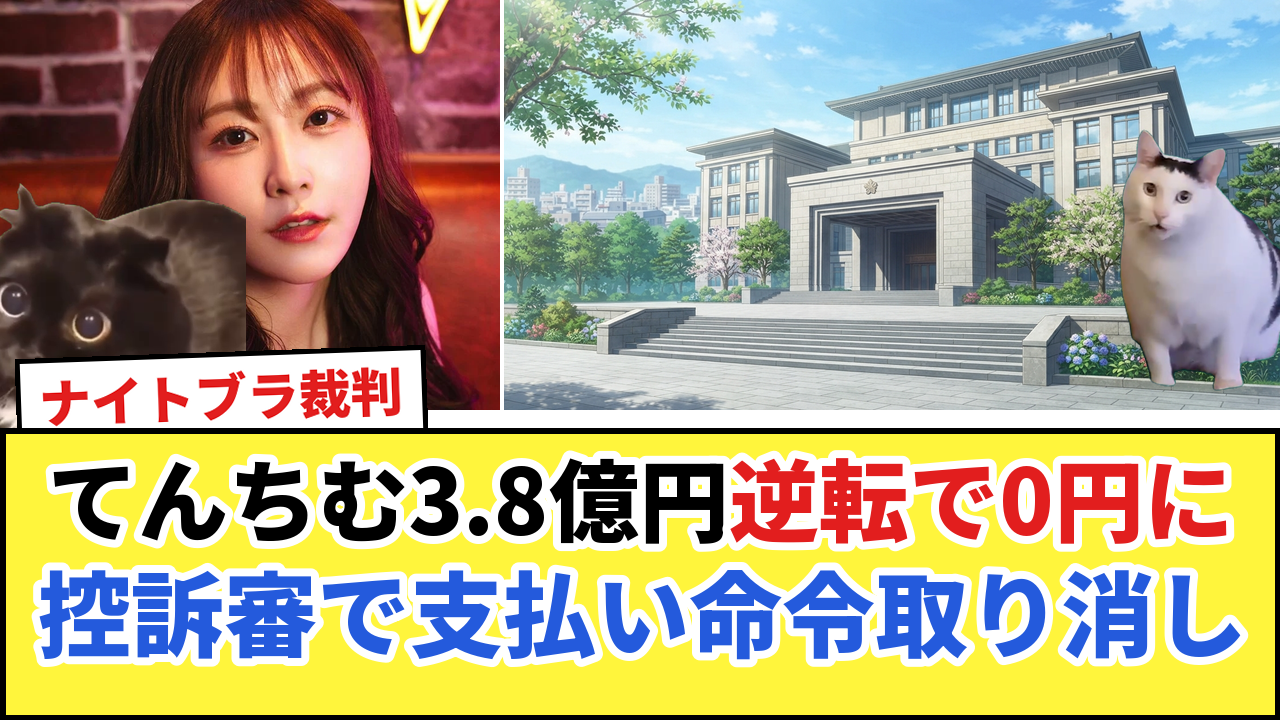
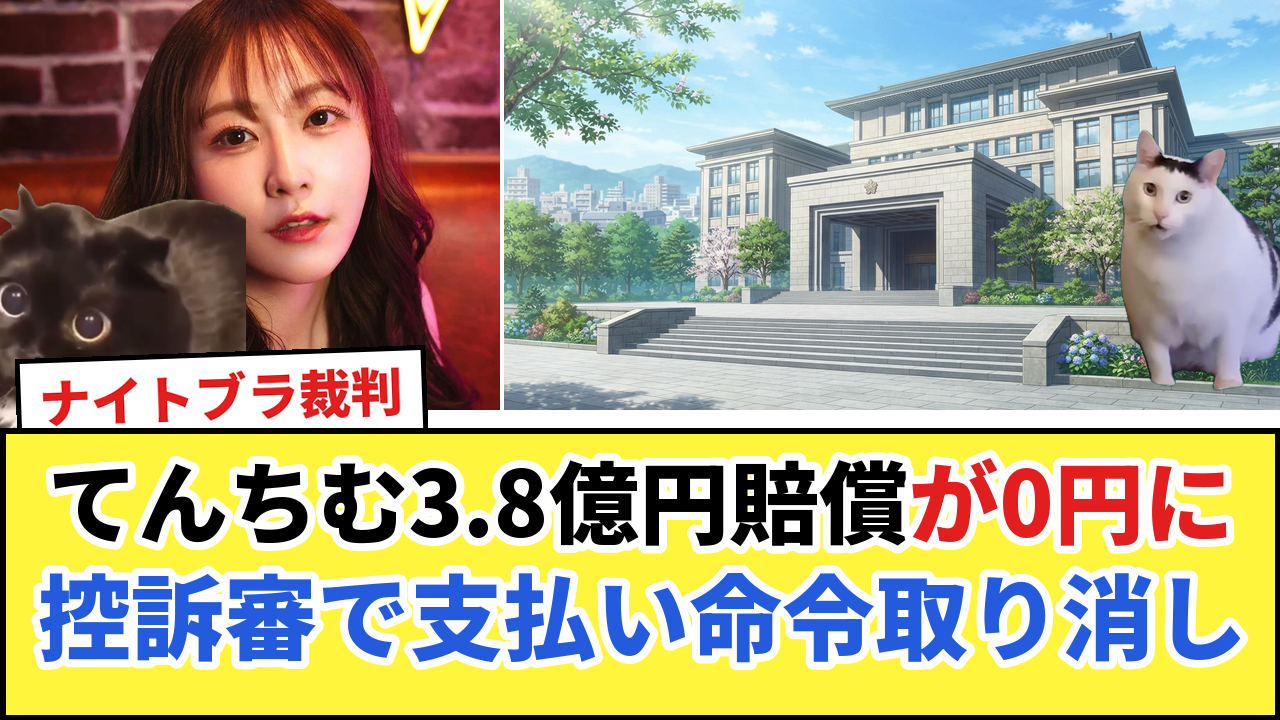
16_tenchim thumbnail A: clarify 3.8-billion is damages
Claude-Session: https://claude.ai/code/session_011g9CsrfFD5YswfNSvNDW39

Changed region(s): [[0.0312, 0.6111, 0.9688, 0.9472], [0.625, 0.9167, 0.6562, 0.9472]]

diff --git a/catmeme/make_thumb_long_ref.py b/catmeme/make_thumb_long_ref.py
@@ -282,7 +282,7 @@ def tenchim():
            ("surprise_big_pupils_cat", 0.6, 90, 470, 300, False),
            [("huh_huh_cat", 1.0, 1130, 410, 300, True)],
            "ナイトブラ裁判",
-           [("てんちむ3.8億円", BLACK), ("逆転で0円に", RED)], [("控訴審で支払い命令取り消し", BLUE)])
+           [("てんちむ3.8億円賠償", BLACK), ("が0円に", RED)], [("控訴審で支払い命令取り消し", BLUE)])
     type_b("16_tenchim_ref_b.png",
            [("bg82_tenchim_feather", []),
             ("bg87_refund_money", [("surprise_big_pupils_cat", 0.6, 160, 470, 340, False)]),

diff --git a/catmeme/scripts/16_tenchim_youtube.md b/catmeme/scripts/16_tenchim_youtube.md
@@ -6,7 +6,7 @@
 3. 【猫ミーム】裁判に勝っても消えない問題　てんちむ「モテフィット」騒動を整理 #猫ミーム
 
 ## サムネ（固定の3パターンから選ぶ）
-- A：release/16_tenchim_thumb_a.png（本人の写真＋裁判所、札「ナイトブラ裁判」＋「てんちむ3.8億円 逆転で0円に／控訴審で支払い命令取り消し」）
+- A：release/16_tenchim_thumb_a.png（本人の写真＋裁判所、札「ナイトブラ裁判」＋「てんちむ3.8億円賠償が0円に／控訴審で支払い命令取り消し」）
 - B：release/16_tenchim_thumb_b.png（4コマ「豊胸隠し発覚」「自腹で返金」「一審3.8億円…」「逆転!!」＋「3億8,000万円が0円に／てんちむ 6年越しの逆転」）
 - C：release/16_tenchim_thumb_c.png（本人の写真全面＋上の黒帯＋「まさかの逆転」）
 - 写真はユーザー提供。出どころ（使用許可）を公開前に確認
